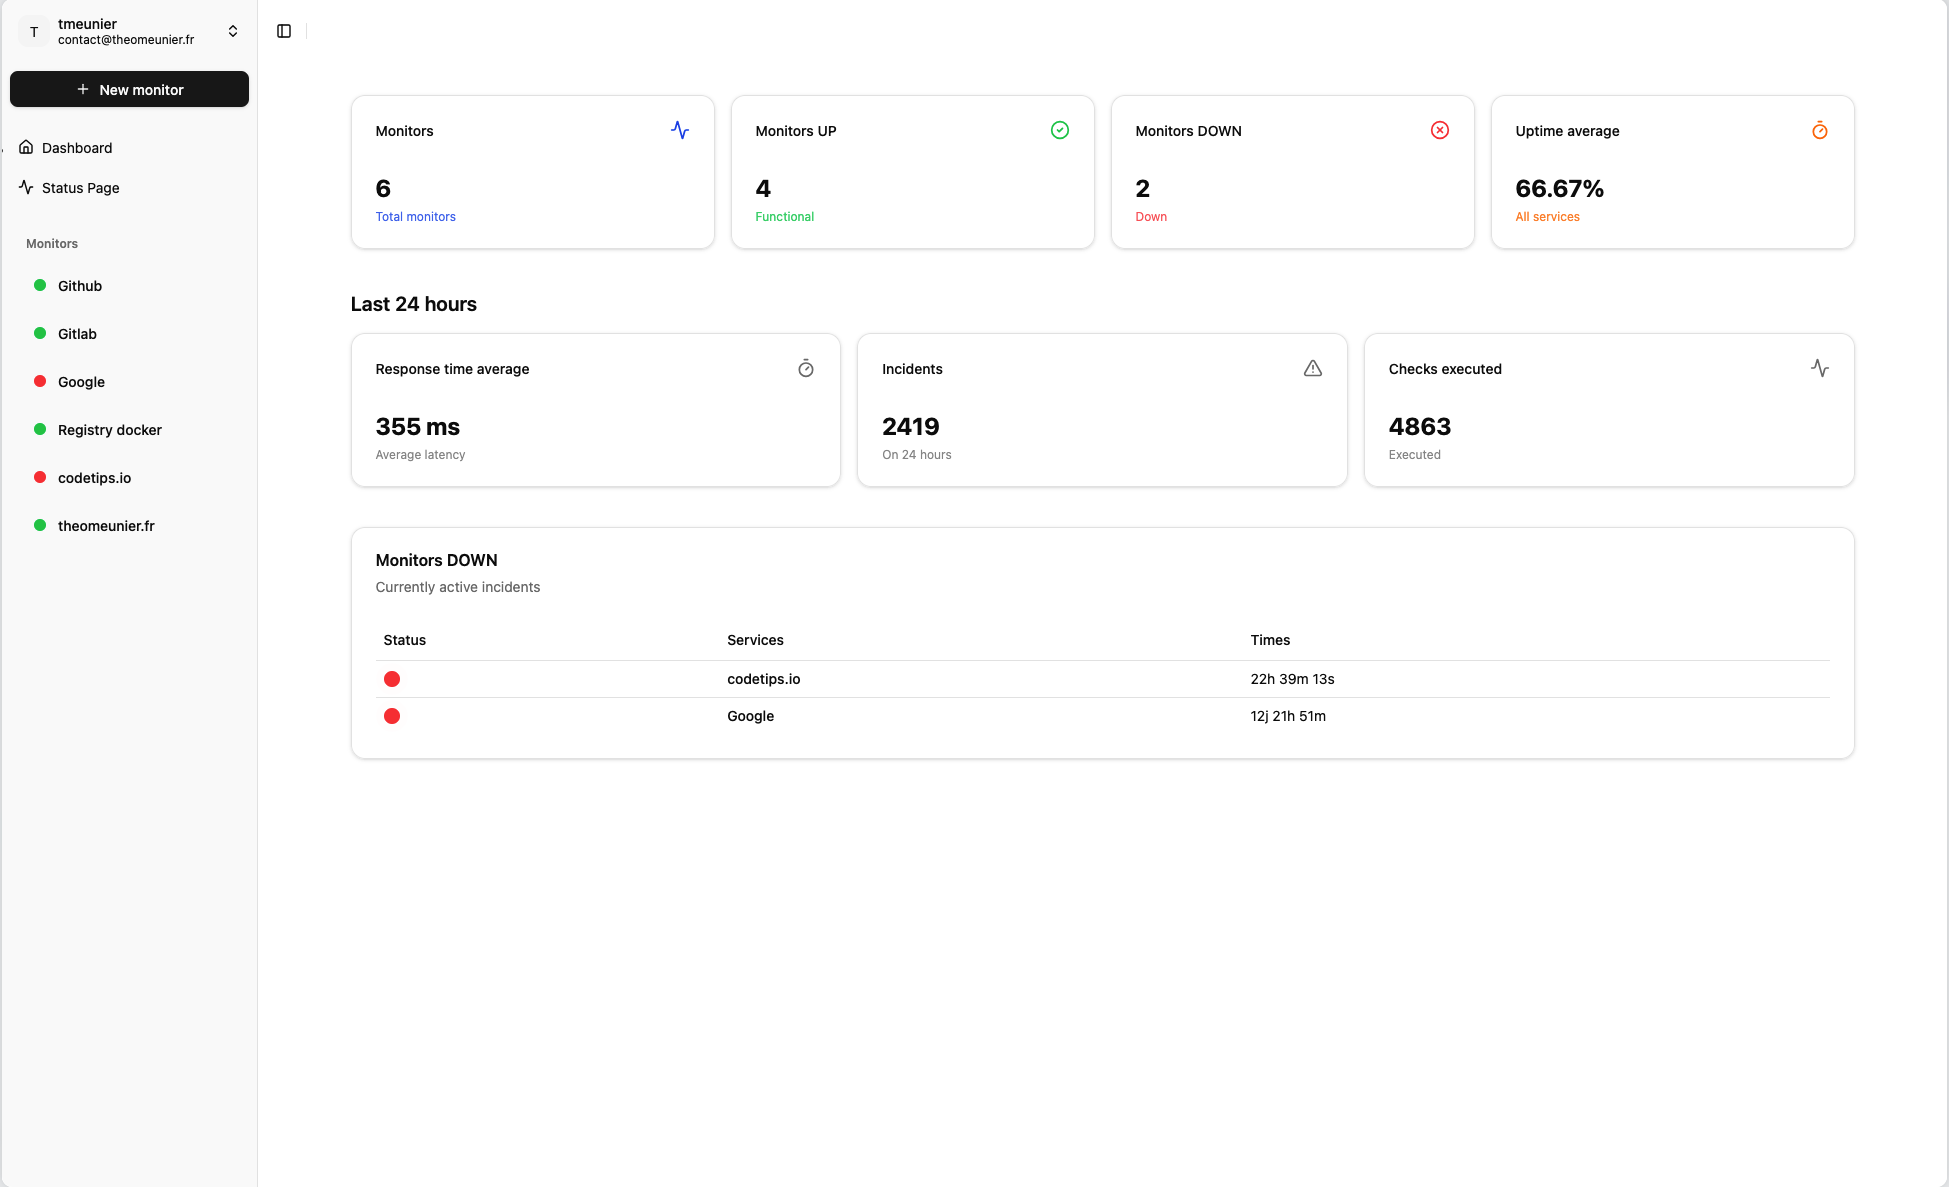
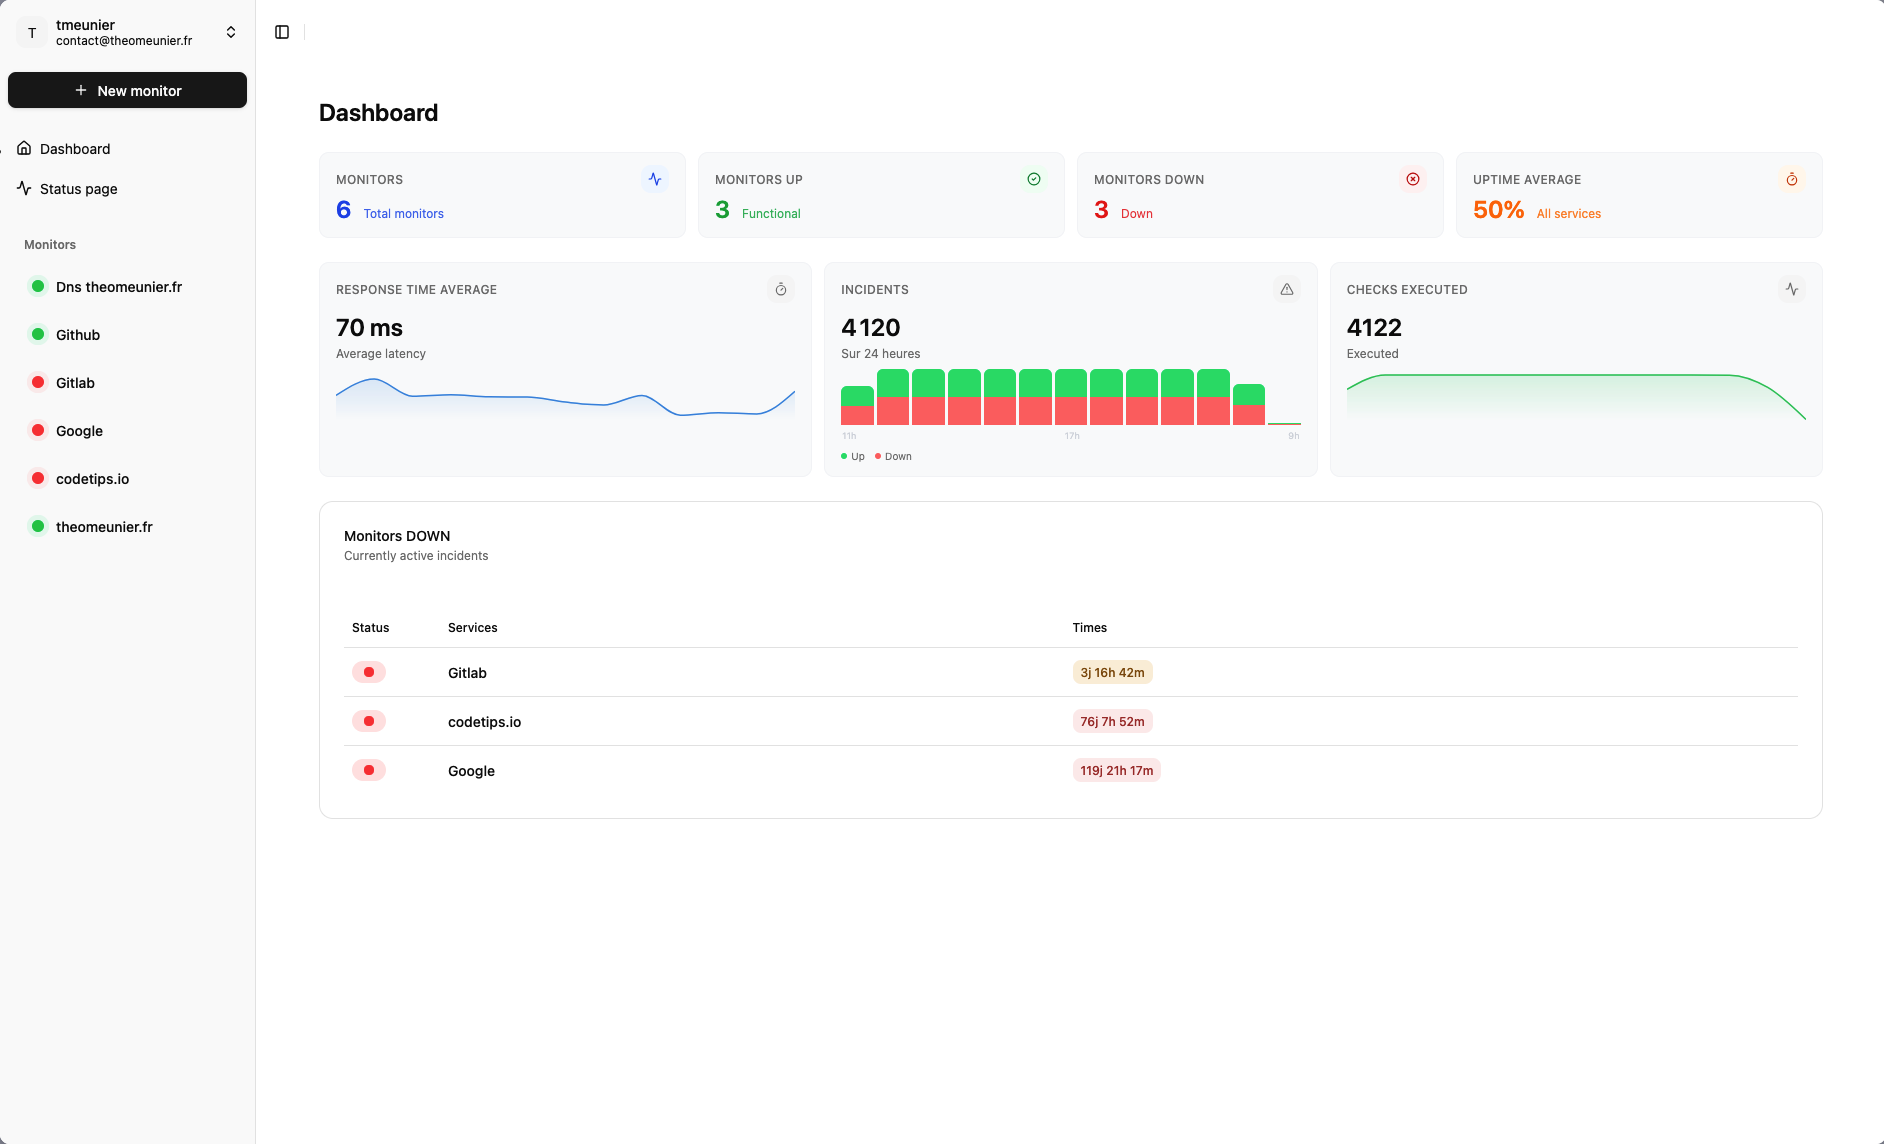
fix: correct image filenames in README for status and monitor pages

diff --git a/README.md b/README.md
@@ -19,8 +19,8 @@ Ideal for monitoring service availability without relying on external solutions.
 <table>
   <tr>
     <td><img src="docs/images/dashboard.png" alt="dashboard" width="300"></td>
-    <td><img src="docs/images/status_page.png" alt="status page" width="300"></td>
-    <td><img src="docs/images/monitor_page.png" alt="monitor" width="300"></td>
+    <td><img src="docs/images/status-page.png" alt="status page" width="300"></td>
+    <td><img src="docs/images/monitor-page.png" alt="monitor" width="300"></td>
   </tr>
 </table>
 
